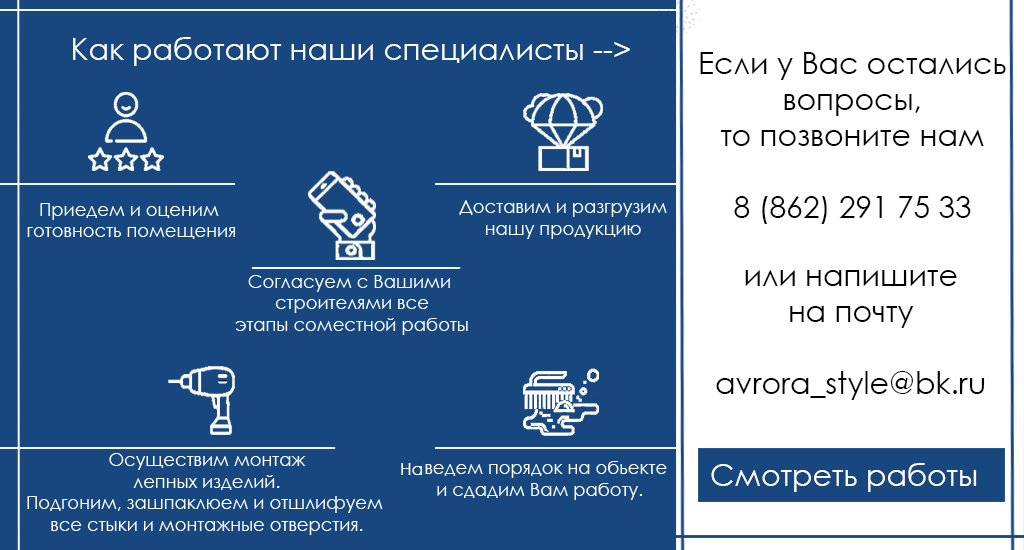
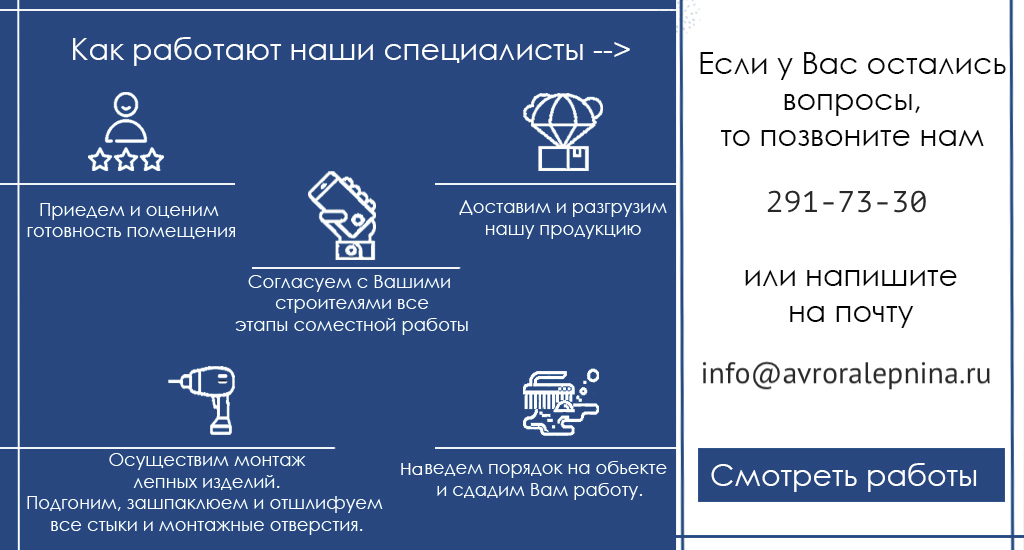
Updated templates and media

Changed region(s): [[0.6875, 0.6491, 0.9688, 0.7418], [0.7188, 0.34, 0.9688, 0.4018]]

diff --git a/🛰/templates/catalog/product/index.php b/🛰/templates/catalog/product/index.php
@@ -65,131 +65,6 @@
             </div>
         </div>
     </section>
-    <section id="sp-section-5">
-        <div class="container">
-            <div class="row">
-                <div id="sp-user1" class="col-sm-12 col-md-12">
-                    <div class="sp-column ">
-                        <div class="sp-module order">
-                            <div class="sp-module-content">
-                                <div class="rsformorder">
-                                    <form method="post" id="userForm" class="formResponsive"
-                                          action="3-inset-spot-lighting-vs-002.html">
-                                        <div id="rsform_error_3" style="display: none;"><p class="formRed">Please
-                                                complete all required fields!</p></div>
-                                        <!-- Do not remove this ID, it is used to identify the page so that the pagination script can work correctly -->
-                                        <fieldset class="formContainer formHorizontal" id="rsform_3_page_0">
-                                            <div class="formRow">
-                                                <div class="formSpan12">
-                                                    <div class="rsform-block rsform-block-name">
-                                                        <label class="formControlLabel" for="Name">Ваше имя<strong
-                                                                    class="formRequired">(*)</strong></label>
-                                                        <div class="formControls">
-                                                            <div class="formBody">
-                                                                <input type="text" value="" size="20" maxlength="30"
-                                                                       placeholder="Иванов И.И." name="form[Name]"
-                                                                       id="Name" class="rsform-input-box"/>
-                                                                <span class="formValidation"><span id="component25"
-                                                                                                   class="formNoError">Допускаются только буквы.</span></span>
-                                                                <p class="formDescription"></p>
-                                                            </div>
-                                                        </div>
-                                                    </div>
-                                                    <div class="rsform-block rsform-block-tel">
-                                                        <label class="formControlLabel" for="tel">Телефон<strong
-                                                                    class="formRequired">(*)</strong></label>
-                                                        <div class="formControls">
-                                                            <div class="formBody">
-                                                                <input type="tel" value="" size="20"
-                                                                       placeholder="88005553535" name="form[tel]"
-                                                                       id="tel" class="rsform-input-box"/>
-                                                                <span class="formValidation"><span id="component26"
-                                                                                                   class="formNoError">Только цифры.</span></span>
-                                                                <p class="formDescription"></p>
-                                                            </div>
-                                                        </div>
-                                                    </div>
-                                                    <div class="rsform-block rsform-block-email">
-                                                        <label class="formControlLabel" for="email">Email</label>
-                                                        <div class="formControls">
-                                                            <div class="formBody">
-                                                                <input type="email" value="" size="20"
-                                                                       placeholder="mymail@mail.ru"
-                                                                       name="form[email]" id="email"
-                                                                       class="rsform-input-box"/>
-                                                                <span class="formValidation"><span id="component27"
-                                                                                                   class="formNoError">Invalid Input</span></span>
-                                                                <p class="formDescription"></p>
-                                                            </div>
-                                                        </div>
-                                                    </div>
-                                                    <div class="rsform-block rsform-block-comment">
-                                                        <label class="formControlLabel"
-                                                               for="comment">Комментарий</label>
-                                                        <div class="formControls">
-                                                            <div class="formBody">
-                                                                <div class="js-editor-tinymce"><textarea
-                                                                            name="form[comment]"
-                                                                            id="comment"
-                                                                            cols="10"
-                                                                            rows="3"
-                                                                            style="width: 100px; height: 30px;"
-                                                                            class="mce_editable joomla-editor-tinymce"
-                                                                    >
-	Хочу заказать светильник VS01</textarea>
-                                                                    <div class="toggle-editor btn-toolbar pull-right clearfix">
-                                                                        <a class="btn btn-default" href="#"
-                                                                           onclick="tinyMCE.execCommand('mceToggleEditor', false, 'comment');return false;"
-                                                                           title="Toggle editor"
-                                                                        >
-                                                                            <i class="fa fa-eye"></i> Toggle editor
-                                                                        </a>
-                                                                    </div>
-                                                                </div>
-                                                                <span class="formValidation"><span id="component28"
-                                                                                                   class="formNoError">Invalid Input</span></span>
-                                                                <p class="formDescription"></p>
-                                                            </div>
-                                                        </div>
-                                                    </div>
-                                                    <div class="rsform-block rsform-block-submit">
-                                                        <label class="formControlLabel" for="submit"></label>
-                                                        <div class="formControls">
-                                                            <div class="formBody">
-                                                                <a type="button" name="form[submit]"
-                                                                   id="submit" class="rsform-button" href="#order-from">Заказать
-                                                                </a>
-                                                                <button type="reset" class="rsform-reset-button">
-                                                                    Очистить
-                                                                </button>
-                                                                <span class="formValidation"></span>
-                                                                <p class="formDescription"></p>
-                                                            </div>
-                                                        </div>
-                                                    </div>
-                                                </div>
-                                            </div>
-                                        </fieldset>
-                                        <input type="hidden" name="form[formId]" value="3"/></form>
-                                    <script type="text/javascript">RSFormPro.Ajax.URL = "\/index.php\/component\/rsform\/?task=ajaxValidate";</script>
-                                    <script type="text/javascript">
-                                        ajaxExtraValidationScript[3] = function (task, formId, data) {
-                                            var formComponents = {};
-                                            formComponents[25] = 'Name';
-                                            formComponents[26] = 'tel';
-                                            formComponents[27] = 'email';
-                                            formComponents[28] = 'comment';
-                                            RSFormPro.Ajax.displayValidationErrors(formComponents, task, formId, data);
-                                        };
-                                    </script>
-                                </div>
-                            </div>
-                        </div>
-                    </div>
-                </div>
-            </div>
-        </div>
-    </section>
     <div id="order-from">
         <style>
             #order-from {

diff --git a/info/prices.php b/info/prices.php
@@ -360,12 +360,8 @@
                                                                 class="sppb-addon-title">Заказ лепнины</h6>
                                                         <div class="sppb-addon-content"><p><span
                                                                         style="font-size: 12pt;"><span
-                                                                            style="color: #777777;"><span
-                                                                                style="font-family: 'Liberation Serif', serif;">При заказе лепнины следует обратить особое внимание на материал, из которого она изготовлена. Основные материалы для изготовления лепнины это гипс, полиуретан и пластик или пенопласт. Делая заказ лепнины, помните, что пластик и пенопласт имеют очень короткий срок службы, теряют свой внешний вид при соприкосновении с мебелью, неустойчивы к внешним воздействиям. Традиционный и экологически чистый материал, проверенный годами &ndash; это гипс. Именно гипсовая лепнина подойдет более всего для создания индивидуального и неповторимого интерьера.&nbsp;</span></span><span
-                                                                            style="font-family: 'Liberation Serif', serif;"><br/> <br/> </span><span
-                                                                            style="font-family: 'Liberation Serif', serif;">У нас Вы сможете</span><span
-                                                                            style="color: #777777;"><span
-                                                                                style="font-family: 'Liberation Serif', serif;"> сделать заказ на изготовление лепнины для внешней и внутренней отделки помещений. Заказ лепнины выполняется нашими специалистами в кратчайшие сроки. Изготовление лепнины на заказ может стать первым шагом на пути к гармоничному устройству вашего дома.</span></span></span>
+                                                                            style="color: #777777;"><span>При заказе лепнины следует обратить особое внимание на материал, из которого она изготовлена. Основные материалы для изготовления лепнины это гипс, полиуретан и пластик или пенопласт. Делая заказ лепнины, помните, что пластик и пенопласт имеют очень короткий срок службы, теряют свой внешний вид при соприкосновении с мебелью, неустойчивы к внешним воздействиям. Традиционный и экологически чистый материал, проверенный годами &ndash; это гипс. Именно гипсовая лепнина подойдет более всего для создания индивидуального и неповторимого интерьера.&nbsp;</span></span><span><br/> <br/> </span><span>У нас Вы сможете</span><span
+                                                                            style="color: #777777;"><span> сделать заказ на изготовление лепнины для внешней и внутренней отделки помещений. Заказ лепнины выполняется нашими специалистами в кратчайшие сроки. Изготовление лепнины на заказ может стать первым шагом на пути к гармоничному устройству вашего дома.</span></span></span>
                                                             </p></div>
                                                     </div>
                                                 </div>
@@ -420,8 +416,7 @@
                                                         <div class="sppb-addon-content"><h1
                                                                     class="western"><span
                                                                         style="font-size: 12pt;"><span
-                                                                            style="color: #000000;"><span
-                                                                                style="font-family: 'Century Gothic', sans-serif;">Стоимость изделий из натурального гипса, очень часто, ниже, чем аналоги из полиуретана. По стоимости монтажа, по смете работ, цена установки лепнины из полиуретана примерно на 20-30% ниже. Но! Стоит рассмотреть условия эксплуатации полиуретановых изделия и все становится ясно.&nbsp;<br/> В договоре эксплуатации пишется, что изделия должны использоваться в помещении со стабильной температурой &ndash; только в таком случае дается гарантия качества. Если температурный режим меняется, может произойти что угодно. В таком случае, виноваты только вы сами. Изделия из гипса не подвержены температурным колебаниям и перепадам влажности.<br/> Кроме того, гипс не дает усадки, на нем не образуется трещин. Природное происхождение этого материала служит гарантией его качества и долговечности. Использование натурального гипса &ndash; настоящая возможность сэкономить!</span></span></span>
+                                                                            style="color: #000000;"><span>Стоимость изделий из натурального гипса, очень часто, ниже, чем аналоги из полиуретана. По стоимости монтажа, по смете работ, цена установки лепнины из полиуретана примерно на 20-30% ниже. Но! Стоит рассмотреть условия эксплуатации полиуретановых изделия и все становится ясно.&nbsp;<br/> В договоре эксплуатации пишется, что изделия должны использоваться в помещении со стабильной температурой &ndash; только в таком случае дается гарантия качества. Если температурный режим меняется, может произойти что угодно. В таком случае, виноваты только вы сами. Изделия из гипса не подвержены температурным колебаниям и перепадам влажности.<br/> Кроме того, гипс не дает усадки, на нем не образуется трещин. Природное происхождение этого материала служит гарантией его качества и долговечности. Использование натурального гипса &ndash; настоящая возможность сэкономить!</span></span></span>
                                                             </h1></div>
                                                     </div>
                                                 </div>

diff --git a/info/minimal-order.php b/info/minimal-order.php
@@ -588,21 +588,13 @@
                                                             лепнины</h3>
                                                         <div class="sppb-addon-content"><p><span
                                                                         style="font-size: 12pt;"><span
-                                                                            style="color: #777777;"><span
-                                                                                style="font-family: 'Century Gothic', sans-serif;">Реставрация лепнины включает в себя обширный комплекс работ, в том числе детальное изучение орнаментов и освобождение лепнины от последующих покрасок. После расчистки лепных деталей от краски видна картина их повреждений. Чаще всего пострадавшими оказываются швы соединения отдельных частей, обнаруживаются выбоины, поломки, трещины от действия влаги или огня.&nbsp;</span></span><span
-                                                                            style="font-family: 'Century Gothic', sans-serif;"><br/> <br/> </span><span
-                                                                            style="color: #777777;"><span
-                                                                                style="font-family: 'Century Gothic', sans-serif;">Реставрация лепнины заключается в восстановлении отбитых деталей, склеивании их, добавлении недостающих деталей, проверке прочности крепления лепных деталей и в случае необходимости &mdash; постановке новых дополнительных креплений. А начинается она с закрепления частей и деталей, которые могут упасть. При этом все швы и трещины расшивают для дальнейшего заполнения их гипсом. Размякший гипс вырезают, места обломов подготавливают для лепки на них утерянных частей.&nbsp;</span></span><span
-                                                                            style="font-family: 'Century Gothic', sans-serif;"><br/> <br/> </span><strong><span
-                                                                                style="color: #777777;"><span
-                                                                                    style="font-family: 'Century Gothic', sans-serif;"><span
+                                                                            style="color: #777777;"><span>Реставрация лепнины включает в себя обширный комплекс работ, в том числе детальное изучение орнаментов и освобождение лепнины от последующих покрасок. После расчистки лепных деталей от краски видна картина их повреждений. Чаще всего пострадавшими оказываются швы соединения отдельных частей, обнаруживаются выбоины, поломки, трещины от действия влаги или огня.&nbsp;</span></span><span><br/> <br/> </span><span
+                                                                            style="color: #777777;"><span>Реставрация лепнины заключается в восстановлении отбитых деталей, склеивании их, добавлении недостающих деталей, проверке прочности крепления лепных деталей и в случае необходимости &mdash; постановке новых дополнительных креплений. А начинается она с закрепления частей и деталей, которые могут упасть. При этом все швы и трещины расшивают для дальнейшего заполнения их гипсом. Размякший гипс вырезают, места обломов подготавливают для лепки на них утерянных частей.&nbsp;</span></span><span><br/> <br/> </span><strong><span
+                                                                                style="color: #777777;"><span><span
                                                                                         lang="en-US">AVRORA.decor </span></span></span></strong><span
-                                                                            style="color: #777777;"><span
-                                                                                style="font-family: 'Century Gothic', sans-serif;">предлагает все виды работ по реставрации лепнины </span></span><span
-                                                                            style="color: #777777;"><span
-                                                                                style="font-family: 'Century Gothic', sans-serif;">в интерьерах и на фасадах</span></span><span
-                                                                            style="color: #777777;"><span
-                                                                                style="font-family: 'Century Gothic', sans-serif;"> зданий. Наш опыт в реставрации лепнины позволяет нам выполнять заказы любой сложности качественно и в срок.</span></span></span>
+                                                                            style="color: #777777;"><span>предлагает все виды работ по реставрации лепнины </span></span><span
+                                                                            style="color: #777777;"><span>в интерьерах и на фасадах</span></span><span
+                                                                            style="color: #777777;"><span> зданий. Наш опыт в реставрации лепнины позволяет нам выполнять заказы любой сложности качественно и в срок.</span></span></span>
                                                             </p></div>
                                                     </div>
                                                 </div>

diff --git a/info/partnership.php b/info/partnership.php
@@ -332,10 +332,8 @@
                                                                     style="font-size: 14pt;">Наша компания открыта для сотрудничества. </span><br/><br/><span
                                                                     style="font-size: 14pt;">Ждем Ваших писем и вопросов по адресам -></span><br/><br/><span
                                                                     style="font-size: 14pt;">эл.почту <a
-                                                                        href="/cdn-cgi/l/email-protection.html#5f3e292d302d3e333a2f3136313e1f263e313b3a27712d2a"><span
-                                                                            class="__cf_email__"
-                                                                            data-cfemail="f59483879a87949990859b9c9b94b58c949b91908ddb8780">[email&#160;protected]</span></a>&nbsp;&nbsp;</span><br/><span
-                                                                    style="font-size: 14pt;">whatsapp/viber +7 961 93 23 33 0</span>
+                                                                        href="mailto:info@avroralepnina.ru">info@avroralepnina.ru</a>&nbsp;&nbsp;</span><br/><span
+                                                                    style="font-size: 14pt;">whatsapp/viber 8 966 775 75 33</span>
                                                         </div>
                                                     </div>
                                                 </div>

diff --git a/contacts.php b/contacts.php
@@ -426,9 +426,7 @@
                                                             <br/>
                                                             <br/>
                                                             адрес эл.почты: <a
-                                                                    href="/cdn-cgi/l/email-protection.html#553423273a27343930253b3c3b34152c343b31302d7b2720"><span
-                                                                        class="__cf_email__"
-                                                                        data-cfemail="ec8d9a9e839e8d80899c8285828dac958d82888994c29e99">[email&#160;protected]</span></a><br/>
+                                                                    href="mailto:info@avroralepnina.ru">info@avroralepnina.ru</a><br/>
                                                             <br/>
                                                             г. Москва, Красногорский бульвар 25<br/>
                                                             <br/>

diff --git a/design-project.php b/design-project.php
@@ -362,7 +362,7 @@
                                                             <div class="sppb-addon-single-image-container"><img
                                                                         alt=".jpg"
                                                                         class="sppb-img-responsive"
-                                                                        src="https://static.avroralepnina.ru/images/2017/10/31/.jpg"
+                                                                        src="https://static.avroralepnina.ru/images/2017/10/31/logo.jpg"
                                                                         title=""></div>
                                                         </div>
                                                     </div>
